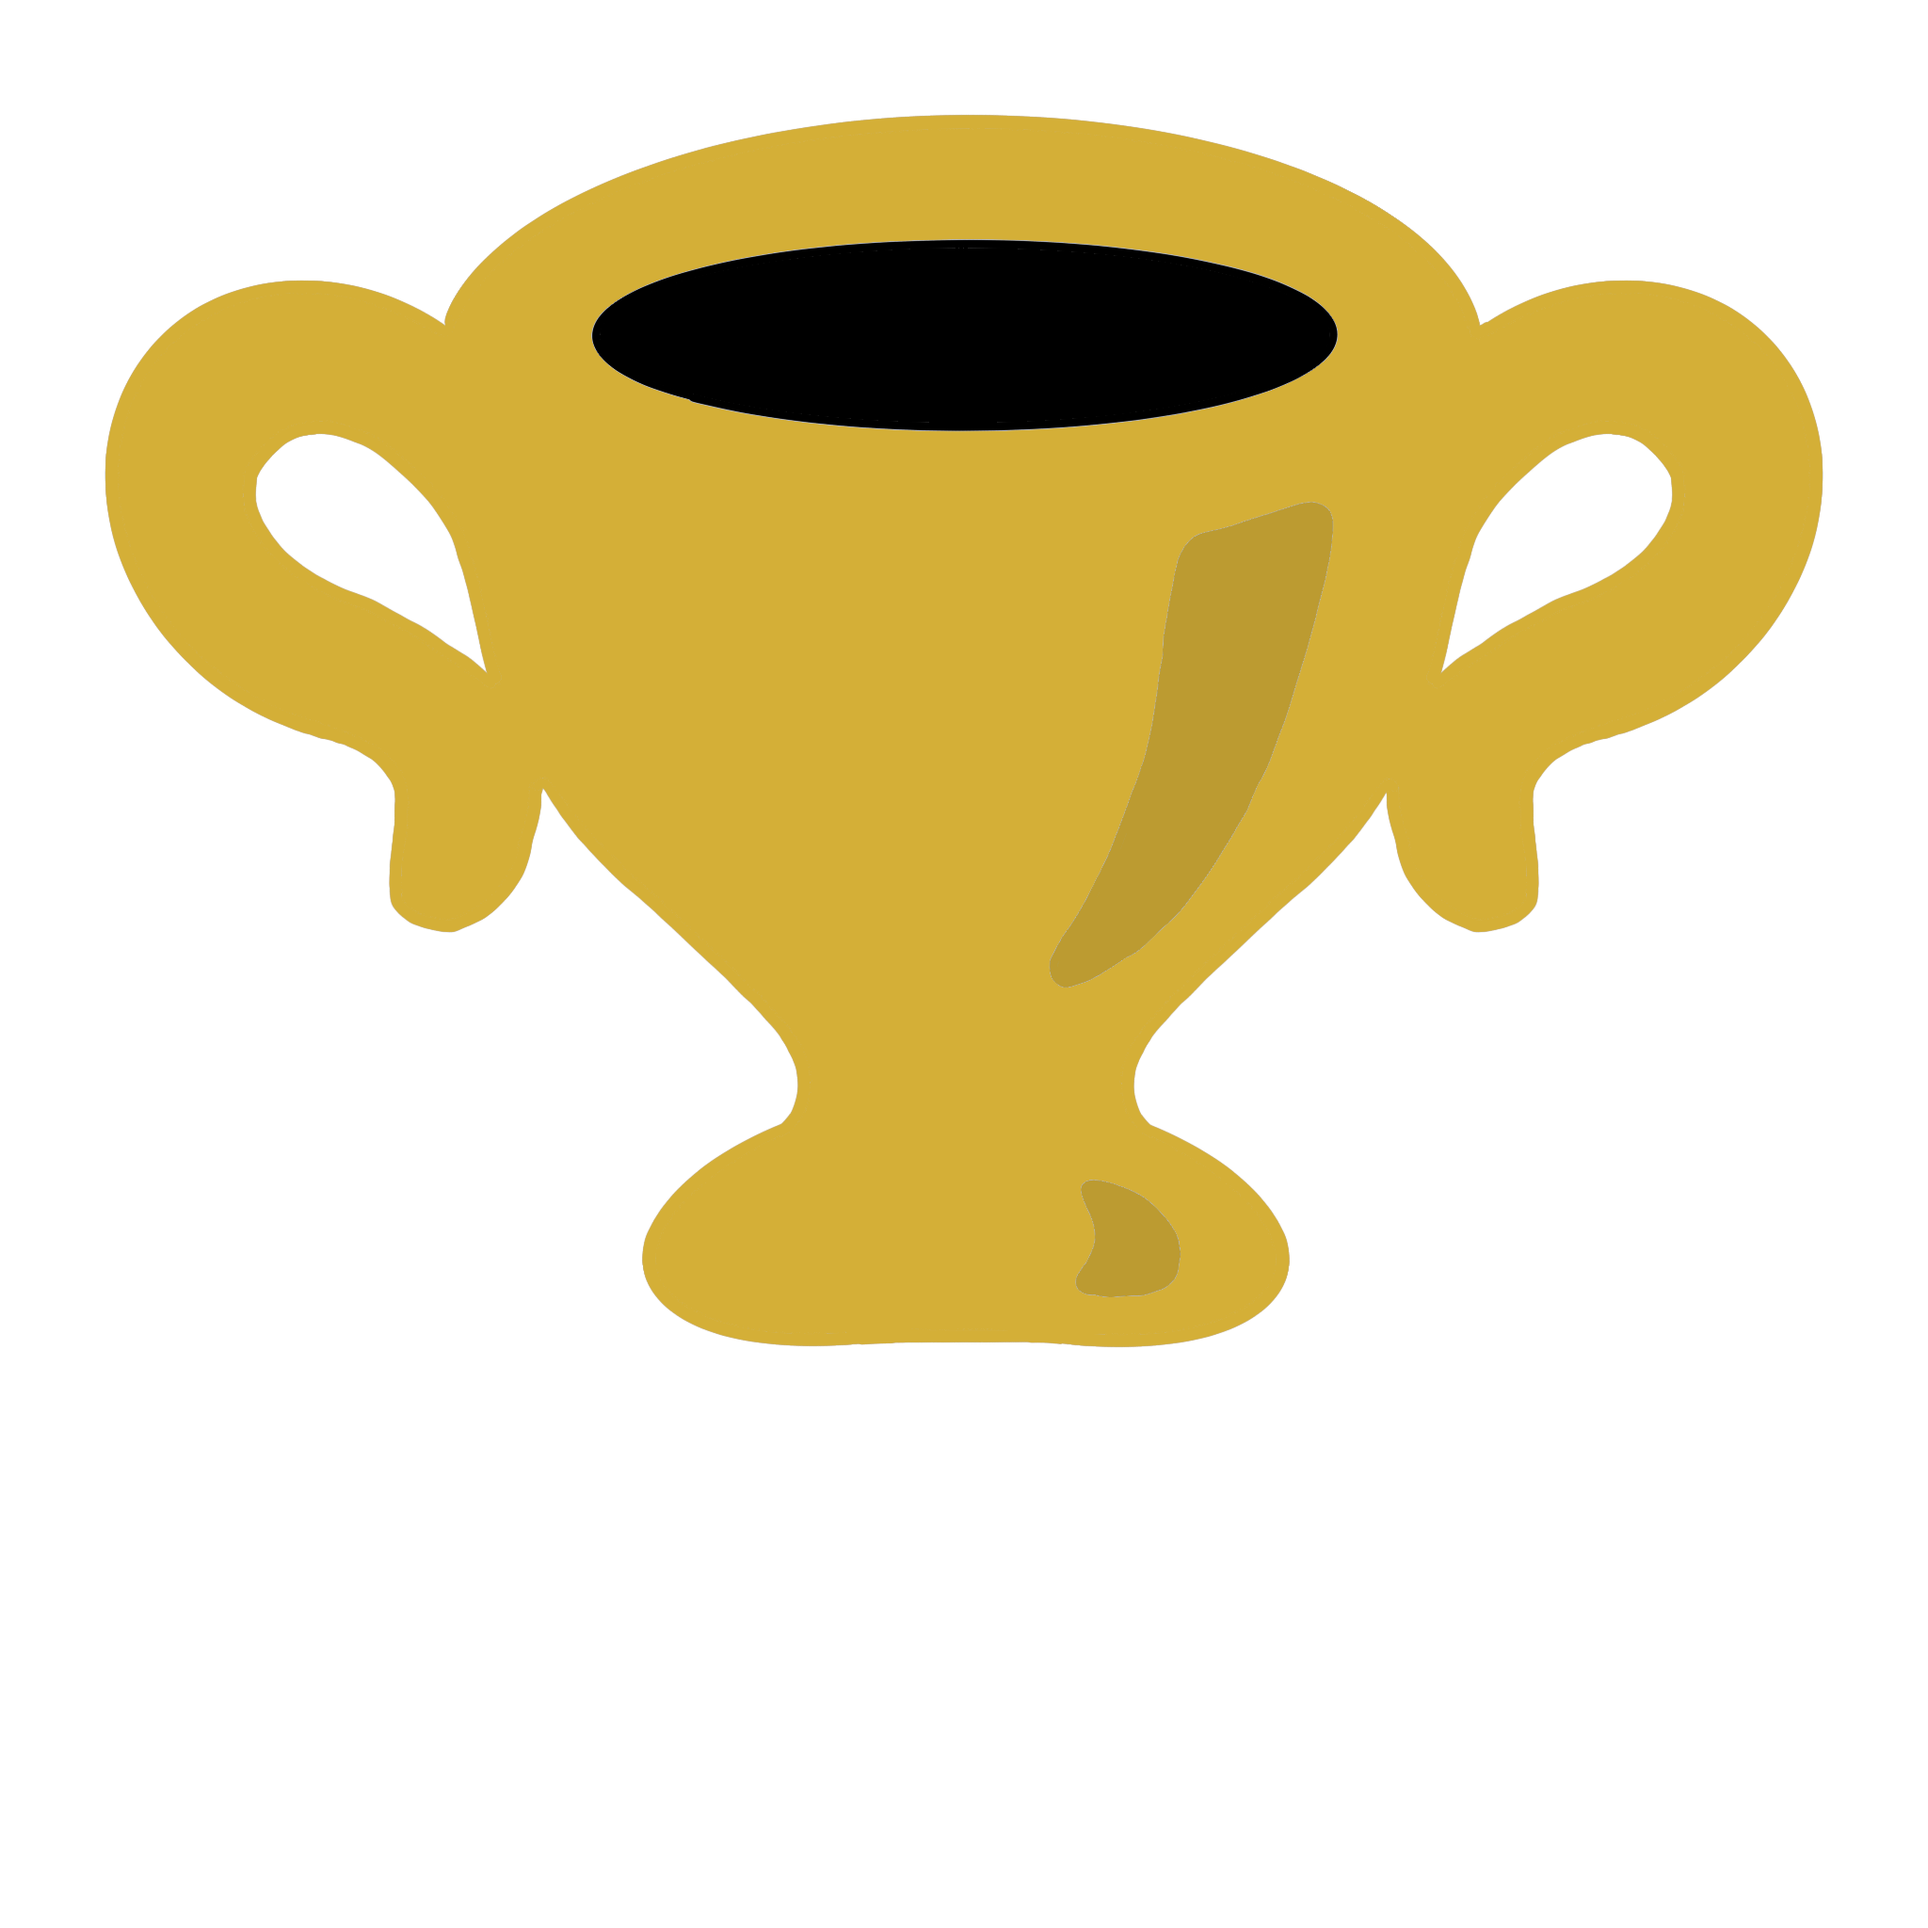
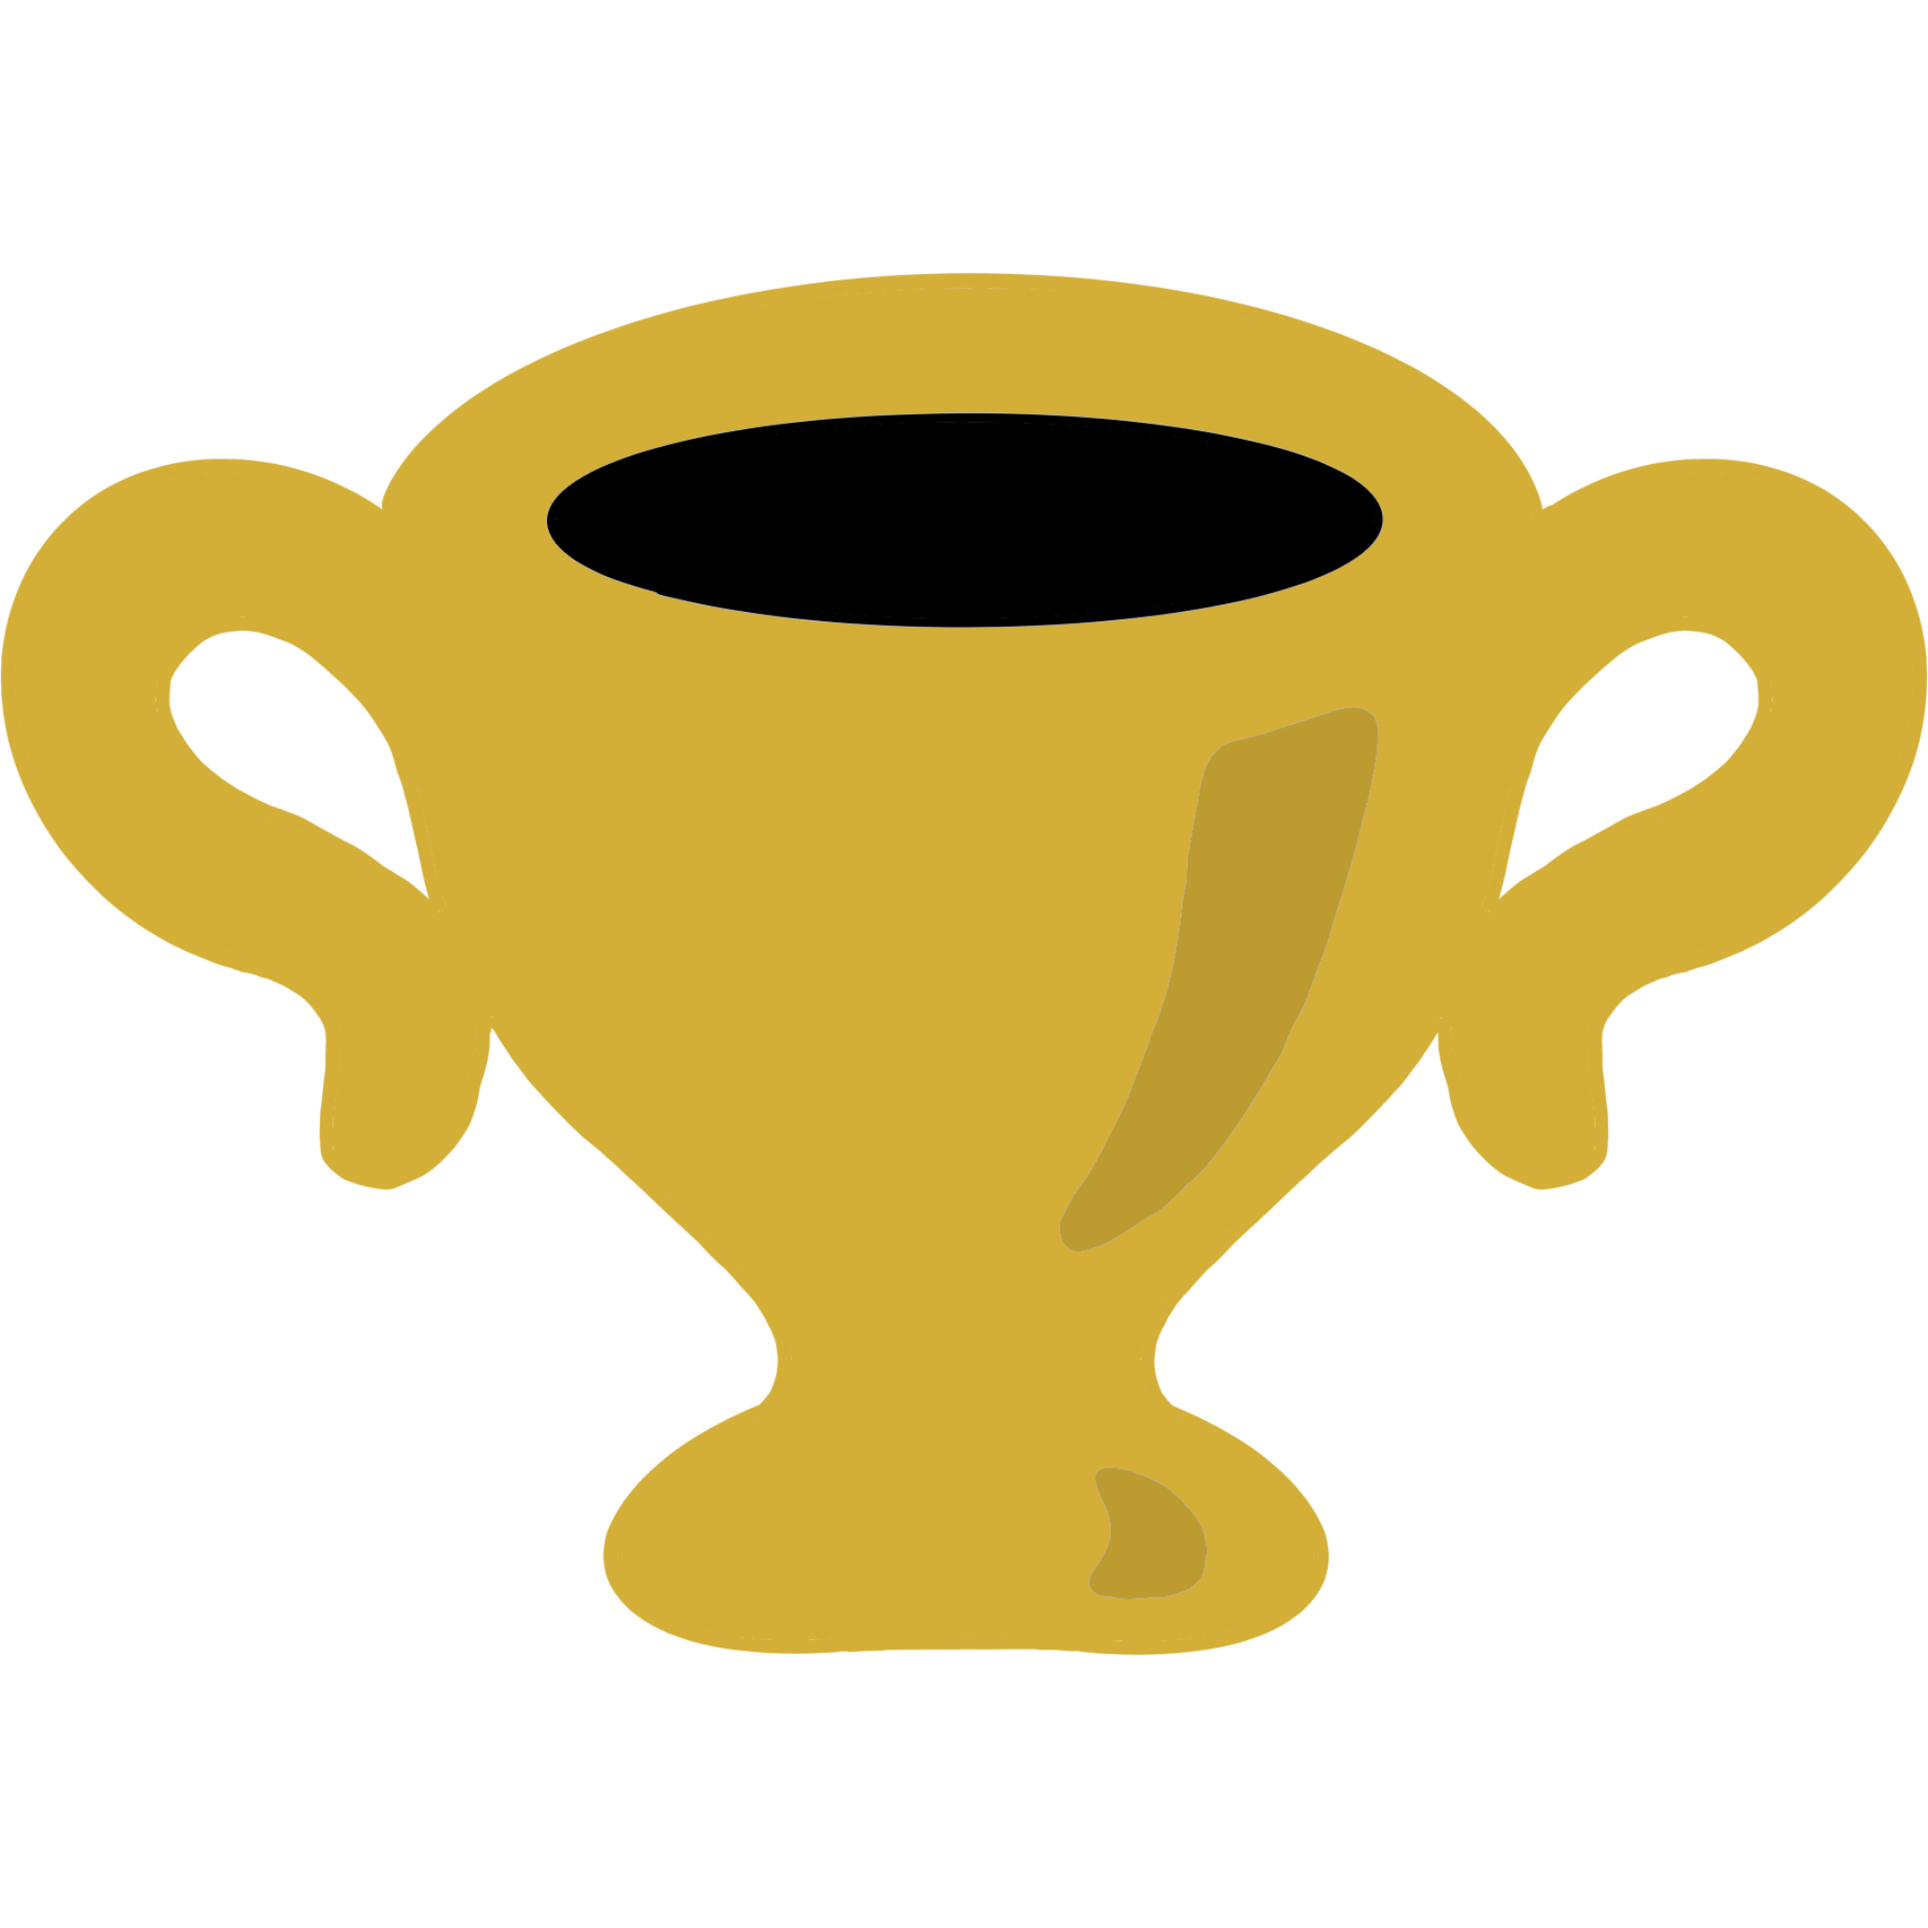
Added RadarCharts to StatsTab.cs

diff --git a/Rider/Pages/Tabs/StatsTab.cs b/Rider/Pages/Tabs/StatsTab.cs
@@ -1,20 +1,98 @@
+using MAUI_GymApp.Rider.Database.Objects;
+using Microcharts;
+using Microcharts.Maui;
+using SkiaSharp;
+
 namespace MAUI_GymApp.Views;
 
 public class StatsTab : ContentView
 {
+    private string[,] CategoryTotals =
+    {
+        {"Arms", "0"}, {"Legs", "0"}, {"Back", "0"}, {"Chest", "0"}, {"Abs", "0"}
+    };
+
+    private string[,] MuscleTotals =
+    {
+        { "Bicep", "0" }, { "Tricep", "0" }, { "Forearm", "0" }, { "Calf", "0" }, { "Lats", "0" }, { "Shoulders", "0" }, { "Glutes", "0" },
+        { "Traps", "0" }, { "Quadriceps", "0" }, {"Hamstrings", "0"}, {"L Back", "0"}, {"U Back", "0"}, {"Abs", "0"}, {"Chest", "0"}
+    };
+
+    private Switch _switch = new Switch() { OnColor = Colors.White, ThumbColor = Colors.Black};
+    private VerticalStackLayout _layout;
+    private VerticalStackLayout _card;
+
     public StatsTab()
     {
-        Content = new VerticalStackLayout
+        _card = new VerticalStackLayout()
         {
-            Padding = new Thickness(16, 16, 16, 0),
-            Spacing = 0,
+            Padding = new Thickness(16, 12),
+            Spacing = 16,
             Children =
             {
-                new HorizontalStackLayout() { Children = { Controls.MakeLabel("Name: ", 22), Controls.MakeLabel(MainPage.User.Name, 22), } },
-                new HorizontalStackLayout() { Children = { Controls.MakeLabel("Age: ", 22), Controls.MakeLabel(MainPage.User.Age.ToString(), 22), } },
-                new HorizontalStackLayout() { Children = { Controls.MakeLabel("Weight: ", 22), Controls.MakeLabel(MainPage.User.Weight.ToString(), 22), } },
-                new HorizontalStackLayout() { Children = { Controls.MakeLabel("Sex: ", 22), Controls.MakeLabel(MainPage.User.Sex, 22), } }
+                _switch,
+                Controls.MakeRadarChart(360, BuildEntries(CategoryTotals, Category.GetCategoryChartStats()), 28),
             }
         };
+
+        _layout = new VerticalStackLayout()
+        {
+            Padding = new Thickness(16, 16, 16, 0),
+            Spacing = 16,
+            Children =
+            {
+                Controls.MakeLabel("Radar Charts", 24),
+                new Border
+                {
+                    BackgroundColor = Colors.LightGray,
+                    Content = _card
+                }
+            }
+        };
+
+        _switch.Toggled += OnToggled;
+
+        Content = new ScrollView { Content = _layout };
+    }
+
+    private ChartEntry[] BuildEntries(string[,] totals, List<ChartPasser> setList)
+    {
+        ChartEntry[] entries = new ChartEntry[totals.GetLength(0)];
+
+        for (int i = 0; i < totals.GetLength(0); i++)
+        {
+            int count = 0;
+
+            foreach (ChartPasser set in setList)
+            {
+                if (set.Name == totals[i, 0])
+                {
+                    count += set.Sets;
+                }
+            }
+
+            entries[i] = new ChartEntry(count)
+            {
+                Label = totals[i, 0],
+                ValueLabel = Convert.ToString(count),
+                Color = SKColor.Parse("#000000")
+            };
+        }
+
+        return entries;
+    }
+    
+    void OnToggled(object sender, ToggledEventArgs e)
+    {
+        if (_switch.IsToggled)
+        {
+            _card.Children.RemoveAt(1);
+            _card.Children.Add(Controls.MakeRadarChart(360, BuildEntries(MuscleTotals, Muscle.GetMuscleChartStats()), 28));
+        }
+        else
+        {
+            _card.Children.RemoveAt(1);
+            _card.Children.Add(Controls.MakeRadarChart(360, BuildEntries(CategoryTotals, Category.GetCategoryChartStats()), 28));
+        }
     }
 }

diff --git a/Rider/Tools/TabButton.cs b/Rider/Tools/TabButton.cs
@@ -5,10 +5,10 @@ public class TabButton : VerticalStackLayout
     private static readonly Color SelectedColor = Colors.Black;
     private static readonly Color UnselectedColor = Color.FromArgb("#9E9E9E");
 
-    private readonly Label _icon;
+    private readonly Image _icon;
     private readonly Label _text;
 
-    public TabButton(string icon, string text, Action onTapped)
+    public TabButton(string source, string text, Action onTapped)
     {
         Spacing = 2;
         Padding = new Thickness(0, 8);
@@ -16,12 +16,7 @@ public class TabButton : VerticalStackLayout
         VerticalOptions = LayoutOptions.Fill;
         BackgroundColor = Colors.White;
 
-        _icon = new Label
-        {
-            Text = icon,
-            FontSize = 24,
-            HorizontalOptions = LayoutOptions.Center
-        };
+        _icon = Controls.MakeImage(source, 34, 34);
 
         _text = new Label
         {
@@ -43,9 +38,7 @@ public class TabButton : VerticalStackLayout
     {
         Color color = selected ? SelectedColor : UnselectedColor;
         FontAttributes attributes = selected ? FontAttributes.Bold : FontAttributes.None;
-
-        _icon.TextColor = color;
-        _icon.FontAttributes = attributes;
+        
         _text.TextColor = color;
         _text.FontAttributes = attributes;
     }

diff --git a/Rider/Pages/Tabs/TrophiesTab.cs b/Rider/Pages/Tabs/TrophiesTab.cs
@@ -19,6 +19,8 @@ public class TrophiesTab : ContentView
         {
             TrophyPasser trophies = Trophy.GetTrophyByExercise(record.ExerciseId);
             string trophySource;
+            UserPasser user = MainPage.User;
+            int lift = Calculator.GeneralStrength(user.Age, user.Weight, user.Sex, record.ExerciseId);
 
             if (trophies.Platinum <= record.OneRM)
             {
@@ -76,8 +78,8 @@ public class TrophiesTab : ContentView
     {
         Grid inner = MakeRowGrid();
         
-        inner.Add(Controls.MakeTrophy(trophySource, 48, 48));
-        inner.Add(Controls.MakeCell(Exercise.GetExerciseName(record.ExerciseId), 14, TextAlignment.Start), 1);
+        inner.Add(Controls.MakeImage(trophySource, 48, 48));
+        inner.Add(Controls.MakeCell(Exercise.GetExerciseName(record.ExerciseId), 16, TextAlignment.Start), 1);
         inner.Add(Controls.MakeCell($"{record.OneRM}kg", 18, TextAlignment.End), 2);
         inner.Add(Controls.MakeCell($"{record.BestWeight}kg", 18, TextAlignment.End), 3);
 

diff --git a/Rider/Database/Objects/Muscle.cs b/Rider/Database/Objects/Muscle.cs
@@ -1,8 +1,19 @@
-namespace MAUI_GymApp.Rider.Database.Objects;
+using MAUI_GymApp.Rider.Database.Queries;
+
+namespace MAUI_GymApp.Rider.Database.Objects;
 
 public class Muscle
 {
-    
+    public static List<ChartPasser> GetMuscleChartStats()
+    {
+        string sql = "SELECT ws.sets, m.name FROM workoutexercises ws JOIN exercise e ON ws.exerciseId = e.exerciseId JOIN muscle m ON e.muscleId = m.muscleId";
+
+        return GeneralQueries.GetMultiple(sql, reader => new ChartPasser()
+        {
+            Sets = reader.GetInt32(0),
+            Name = reader.GetString(1)
+        });
+    }
 }
 
 public class MusclePasser
@@ -10,4 +21,10 @@ public class MusclePasser
     public int MuscleId { get; set; }
     public string Name { get; set; }
     public int CategoruId { get; set; }
+}
+
+public class ChartPasser
+{
+    public string Name { get; set; }
+    public int Sets { get; set; }
 }

diff --git a/Rider/Tools/Controls.cs b/Rider/Tools/Controls.cs
@@ -1,4 +1,8 @@
-namespace MAUI_GymApp;
+using Microcharts;
+using Microcharts.Maui;
+using SkiaSharp;
+
+namespace MAUI_GymApp;
 
 public class Controls
 {
@@ -78,10 +82,22 @@ public class Controls
         return label;
     }
 
-    public static Image MakeTrophy(string source, int width, int height) => new()
+    public static Image MakeImage(string source, int width, int height) => new()
     {
         Source = source,
         WidthRequest = width,
         HeightRequest = height,
+    };
+
+    public static ChartView MakeRadarChart(int height, ChartEntry[] entries, int textSize) => new()
+    {
+        HeightRequest = height,
+        Chart = new RadarChart
+        {
+            Entries = entries,
+            LabelTextSize = textSize,
+            IsAnimated = false,
+            BackgroundColor = SKColors.Transparent
+        }
     };
 }

diff --git a/Rider/Database/Objects/Category.cs b/Rider/Database/Objects/Category.cs
@@ -1,8 +1,19 @@
-namespace MAUI_GymApp.Rider.Database.Objects;
+using MAUI_GymApp.Rider.Database.Queries;
+
+namespace MAUI_GymApp.Rider.Database.Objects;
 
 public class Category
 {
-    
+    public static List<ChartPasser> GetCategoryChartStats()
+    {
+        string sql = "SELECT ws.sets, c.name FROM workoutexercises ws JOIN exercise e ON ws.exerciseId = e.exerciseId JOIN muscle m ON e.muscleId = m.muscleId JOIN category c ON m.categoryId = c.categoryId";
+
+        return GeneralQueries.GetMultiple(sql, reader => new ChartPasser()
+        {
+            Sets = reader.GetInt32(0),
+            Name = reader.GetString(1)
+        });
+    }
 }
 
 public class CategoryPasser

diff --git a/Rider/Pages/MainPage.cs b/Rider/Pages/MainPage.cs
@@ -17,7 +17,7 @@ public class MainPage : ContentPage
         _contentHost = new ContentView();
 
         TabButton workoutTab = new TabButton("🏋", "Workout", () => Show(0, new WorkoutTab()));
-        TabButton trophiesTab = new TabButton("🏆", "Trophies", () => Show(1, new TrophiesTab()));
+        TabButton trophiesTab = new TabButton("GoldTrophy.png", "Trophies", () => Show(1, new TrophiesTab()));
         TabButton statsTab = new TabButton("📊", "Stats", () => Show(2, new StatsTab()));
         _tabs.Add(workoutTab);
         _tabs.Add(trophiesTab);

diff --git a/Rider/MauiProgram.cs b/Rider/MauiProgram.cs
@@ -1,5 +1,6 @@
 using CommunityToolkit.Maui.Markup;
 using MAUI_GymApp.Database;
+using Microcharts.Maui;
 
 namespace MAUI_GymApp;
 
@@ -12,6 +13,7 @@ public static class MauiProgram
         builder
             .UseMauiApp<App>()
             .UseMauiCommunityToolkitMarkup()
+            .UseMicrocharts()
             .ConfigureFonts(fonts =>
             {
                 fonts.AddFont("orbitron-bold.otf", "OrbitronBold");
